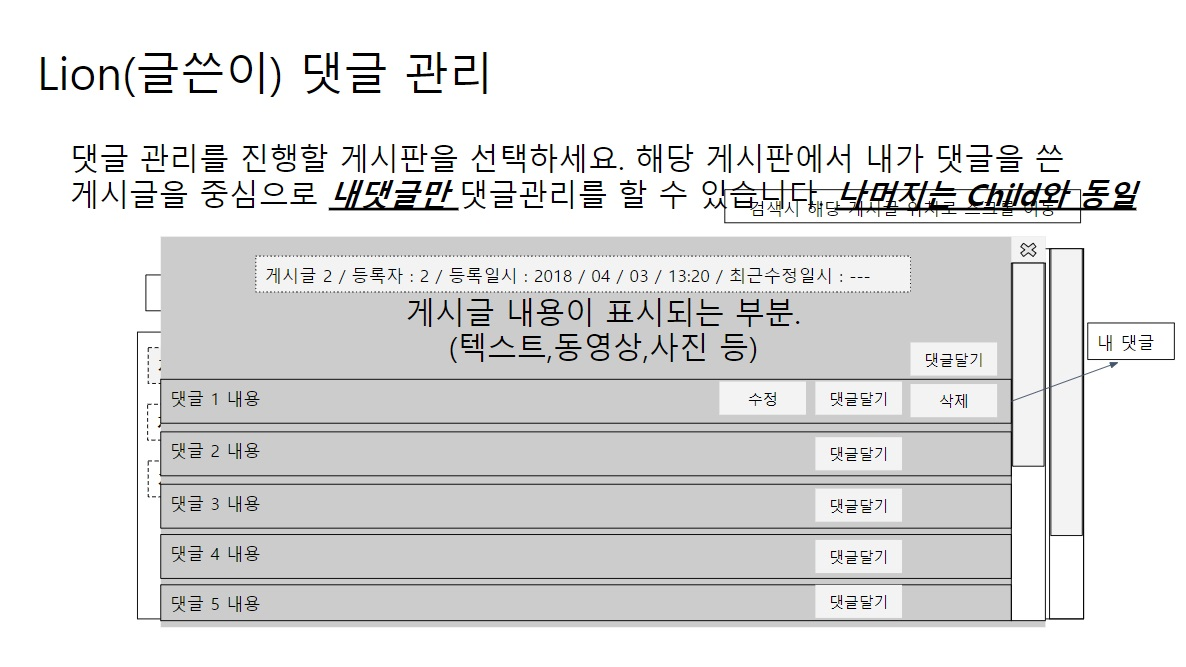
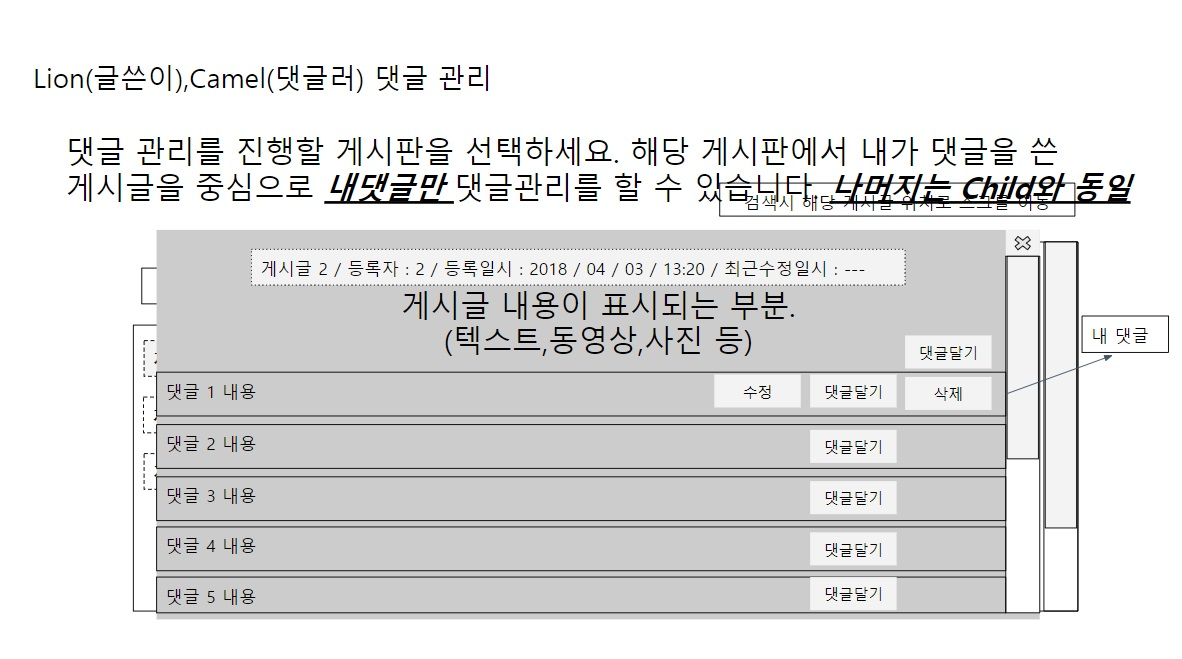
check if I put all right on first and second pre-document

Changed region(s): [[0.0609, 0.2124, 1.0, 0.9408], [0.0305, 0.0607, 0.4264, 0.1517]]

diff --git a/Document_before_development/2.Scene_Definition_Document.md b/Document_before_development/2.Scene_Definition_Document.md
@@ -1,3 +1,297 @@
 **화면 정의서**
 =======================================
->작성날짜 : 2019-0-31
+>작성날짜 : 2019-05-07
+
+**목차**
+=======================================
+> 화면 흐름도
+
+> 관찰자(Owl)가 선택할 수 있는 화면 구성
+
+> 관리자(Child)가 선택할 수 있는 화면 구성
+
+> 글쓴이(Lion)이 선택할 수 있는 화면 구성
+
+> 댓글러(Camel)이 선택할 수 있는 화면 구성
+
+**화면 흐름도**
+=======================================
+* 화면 흐름도에서 제일 중요하게 볼 것은, 계급이 4가지로 분류된다는 것이다.
+    + 계급은 관리자(Child), 글쓴이(Lion), 댓글러(Camel), 관찰자(Owl)로 구분되며 각자 다른 권한을 가지고 있다.
+        - 구글 로그인을 하면 기존 활동 기록에 따라 관리자(Child), 글쓴이(Lion), 댓글러(Camel)로 분류되고, 다른 권한을 가진다.
+        - 권한의 크기 : 관리자(Child) > 글쓴이(Lion) > 댓글러(Camel) > 관찰자(Owl)이다.
+    + 관리자(Child)
+        - 게시판 관리
+        - 회원 관리
+        - 전체 게시글 관리
+        - 전체 댓글 관리
+        - 게시글 읽고 쓰기
+        - 댓글 읽고 쓰기
+    + 글쓴이(Lion)
+        - 자신의 (전체x) 게시글 관리
+        - 자신의 (전체x) 댓글 관리
+        - 게시글 읽고 쓰기
+        - 댓글 읽고 쓰기
+    + 댓글러(Camel)
+        - 자신의 (전체x) 댓글 관리
+        - 게시글 읽기 (쓰기x)
+        - 댓글 읽고 쓰기
+    + 관찰자(Owl)
+        - 게시글 읽기 (쓰기x)
+        - 댓글 읽기 (쓰기x)
+* 계급을 이렇게 분류한 이유는 니체의 인간 발전 3단계(초인으로 가는 길)를 참고했다.
+    + 주인으로 사는 사람 Child : 아이와 같은 순수성으로 새로운 가치를 창조
+    + 어중간한 주인으로 사는 사람 Lion : 주인이 되는 것 만이 중요해 다 물어 뜯는 단계, 아직 세상을 많이 배우지 못한 단계
+    + 노예로 사는 사람 Camel : 정해진 틀속에 갇혀, 남들이 규정하는 대로 세상을 살아가는 존재
+    + 아무것도 아닌 방관자 Owl : 이 모든 서사를 지켜보는 관찰자, 언제든지 Child가 될 수 있다고 꿈꾸지만, 커뮤니티에 소속된 순간 Camel이 되어버리고 만다.
+------------------------------------------
+![Alt text](/images/2.Scene_Definition_Document/Scene1.jpg "Scene1")
+
+
+**관찰자(Owl)가 선택할 수 있는 화면 구성**
+=======================================
+
+* 관찰자(Owl)는 로그인하지 않은 익명 사용자를 가리킨다
+    + 게시글 조회와 댓글 읽기만 할 수 있다. 
+    + 처음 사이트를 방문하는 사람이 보는 화면이다.
+    + 구글 로그인을 하면, 로그인 세션이 저장되고, DB에 저장된, 계급에 따라 세가지 계급으로 구분된다.
+        - 세 계급이란 관리자(Child), 글쓴이(Lion), 댓글러(Camel)을 가리킨다.
+------------------------------------------
+1. 처음 보는 화면
+
+![Alt text](/images/2.Scene_Definition_Document/Scene2.jpg "Scene2")
+
+2. 구글 로그인을 선택 했을 때
+    * 기존 로그인 세션이 저장되있으면 클릭시 바로 로그인이 된다.
+
+![Alt text](/images/2.Scene_Definition_Document/Scene3.jpg "Scene3")
+
+3. 구글 로그인 선택 후 세션 저장되 있는게 없거나 만료됐을 때
+    * 새로 구글 로그인을 진행해주어야 한다.
+        - 만약 크롬과 구글 API를 잘 사용할 수 있다면, 따로 로그인하는 이 절차를 간소화할 수 있음.
+    * 만약 세션이 남아있다면 사이트에 접속하자마자 로그인 성공화면으로 넘어건다.
+
+![Alt text](/images/2.Scene_Definition_Document/Scene4.jpg "Scene4")
+
+4. 구글 로그인 실패화면
+    * 아이디(Id) 혹은 비밀번호(Password)를 빈칸으로 입력하지 않은 경우
+    * 비밀 번호를 잘못 입력한 경우
+
+![Alt text](/images/2.Scene_Definition_Document/Scene5.jpg "Scene5")
+![Alt text](/images/2.Scene_Definition_Document/Scene6.jpg "Scene6")
+
+5. 구글 로그인 성공화면
+    * 아이디(Id) 혹은 비밀번호(Password)를 빈칸없이 제대로 입력했고, 구글 아이디와 비밀번호까지 제대로 입력한 경우
+
+![Alt text](/images/2.Scene_Definition_Document/Scene7.jpg "Scene7")
+![Alt text](/images/2.Scene_Definition_Document/Scene14.jpg "Scene14")
+![Alt text](/images/2.Scene_Definition_Document/Lion_Login_Success.jpg "Lion_Login_Success")
+![Alt text](/images/2.Scene_Definition_Document/Camel_Login_Success.jpg "Camel_Login_Success")
+
+6. 게시판 조회 (게시글 목록 보기) & 게시글 검색
+    * 최초 게시판을 선택하지 않았을 때에는, 모든 게시글이 표시된다. 
+        + 이 때, 게시판을 선택하면 해당 게시판의 모든 게시글이 표시된다.
+
+    * 게시글 검색은 제목, 내용, 작성자를 선택하여 검색할 수 있다.
+        + 작성자는 이메일을 검색해야 나온다.
+        + 카테고리(게시판)을 선택하지 않고, 검색하면 전체 게시글을 대상으로 검색 내용이 나온다.
+        + 카테고리(게시판)을 선택후 검색하면 해당 게시판에 해당하는 게시글을 대상으로 검색 내용이 나온다.
+    * 즉 다시말해, 게시판을 선택했느냐에 대해 전체 게시글과 해당 게시판의 글 목록이 조회된다. 
+        + 여기서 검색을 했느냐에 따라 전체 게시글을 대상으로 검색하거나, 게시판 내의 게시글을 대상으로 검색한다.
+![Alt text](/images/2.Scene_Definition_Document/Scene8.0.jpg "Scene8")
+![Alt text](/images/2.Scene_Definition_Document/Scene8.jpg "Scene8")
+![Alt text](/images/2.Scene_Definition_Document/Scene9.jpg "Scene9")
+![Alt text](/images/2.Scene_Definition_Document/Scene10.jpg "Scene10")
+![Alt text](/images/2.Scene_Definition_Document/Scene11.jpg "Scene11")
+
+7. 게시글 읽기 & 댓글 읽기
+    * 게시글 읽기와 댓글 읽기는 관찰자(Owl)뿐만 아니라 댓글러(Camel), 글쓴이(Lion), 관리자(Child) 모두 가능하다.
+        + 관리자(Child), 글쓴이(Lion), 댓글러(Camel)은 게시글을 조회하는 화면에서 해당 글과 댓글을 수정, 삭제를 할 수 있다.
+        + 좀 더 구체적으로 관리자(Child)는 모든 글과 댓글을 삭제하고 자신의 것은 수정할 수 있지만, 글쓴이(Lion), 댓글러(Camel)은 자기글과 댓글만 수정, 삭제가 가능하다.
+
+![Alt text](/images/2.Scene_Definition_Document/Scene12.jpg "Scene12")
+![Alt text](/images/2.Scene_Definition_Document/Scene13.jpg "Scene13")
+
+**관리자(Child)가 선택할 수 있는 화면 구성**
+=======================================
+* 관리자(Child)는 로그인한 1명의 최고 권한자를 가리킨다.
+    + 관리자는 다양한 고유 권한을 가지고 있다.
+        - 게시판 관리 : 게시판의 생성, 수정, 삭제, 숨김 
+        - 회원 관리 : 회원 등급의 승격과 강등
+        - 게시글 관리 : 전체 게시글에 대한 조회 및 삭제 권한
+        - 댓글 관리 : 전체 댓글에 대한 조회 및 삭제 권한
+------------------------------------------
+![Alt text](/images/2.Scene_Definition_Document/Scene14.jpg "Scene14")
+
+1. 게시판 관리
+    * 관리자(Child)의 게시판 관리 기능은 다음과 같다.
+        + 기존 게시판의 활성화 / 비활성화 
+        + 새로운 게시판의 등록 : 게시판 이름, 특징, 디자인 방식과 페이징 방식 결정
+        + 게시판의 수정
+        + 게시판의 삭제
+    * 게시판의 수정 및 삭제는, 게시판을 비활성화하고 나서야 가능하다.
+        + 게시판을 삭제하게되면 안에 있는 모든 게시글, 댓글 기록이 삭제된다.
+        + 따라서 게시판을 삭제할 때는 관리자 본인 확인을 위해 구글 비밀번호를 한번 더 입력해야 한다.
+
+![Alt text](/images/2.Scene_Definition_Document/Scene15.jpg "Scene15")
+![Alt text](/images/2.Scene_Definition_Document/Scene16.jpg "Scene16")
+![Alt text](/images/2.Scene_Definition_Document/Scene17.jpg "Scene17")
+![Alt text](/images/2.Scene_Definition_Document/Scene18.jpg "Scene18")
+![Alt text](/images/2.Scene_Definition_Document/Scene19.jpg "Scene19")
+![Alt text](/images/2.Scene_Definition_Document/Scene20.jpg "Scene20")
+![Alt text](/images/2.Scene_Definition_Document/Scene21.jpg "Scene21")
+![Alt text](/images/2.Scene_Definition_Document/Scene22.jpg "Scene22")
+![Alt text](/images/2.Scene_Definition_Document/Scene23.jpg "Scene23")
+![Alt text](/images/2.Scene_Definition_Document/Scene24.jpg "Scene24")
+![Alt text](/images/2.Scene_Definition_Document/Scene25.jpg "Scene25")
+![Alt text](/images/2.Scene_Definition_Document/Scene26.jpg "Scene26")
+![Alt text](/images/2.Scene_Definition_Document/Scene27.jpg "Scene27")
+![Alt text](/images/2.Scene_Definition_Document/Scene28.jpg "Scene28")
+![Alt text](/images/2.Scene_Definition_Document/Scene29.jpg "Scene29")
+![Alt text](/images/2.Scene_Definition_Document/Scene30.jpg "Scene30")
+![Alt text](/images/2.Scene_Definition_Document/Scene31.jpg "Scene31")
+![Alt text](/images/2.Scene_Definition_Document/Scene32.jpg "Scene32")
+![Alt text](/images/2.Scene_Definition_Document/Scene33.jpg "Scene33")
+![Alt text](/images/2.Scene_Definition_Document/Scene34.jpg "Scene34")
+![Alt text](/images/2.Scene_Definition_Document/Scene35.jpg "Scene35")
+![Alt text](/images/2.Scene_Definition_Document/Scene36.jpg "Scene36")
+
+2. 회원 관리
+    * 관리자(Child)의 회원 관리 기능은 다음과 같다.
+        + 회원 목록(Lion,Camel) 보기
+        + 회원의 승격 및 강등
+    * 해당 회원이 남긴 게시글과 댓글을 확인할 수 있다.
+
+![Alt text](/images/2.Scene_Definition_Document/Scene37.jpg "Scene37")
+![Alt text](/images/2.Scene_Definition_Document/Scene38.jpg "Scene38")
+![Alt text](/images/2.Scene_Definition_Document/Scene39.jpg "Scene39")
+![Alt text](/images/2.Scene_Definition_Document/Scene40.jpg "Scene40")
+![Alt text](/images/2.Scene_Definition_Document/Scene41.jpg "Scene41")
+
+
+3. 게시글 관리
+    * 관리자(Child)의 게시글 관리 기능은 다음과 같다.        
+        + 게시글 확인(모든 게시글 가능)
+        + 게시글 등록(모든 게시글 가능)
+        + 게시글 삭제(모든 게시글 가능)
+        + 게시글 숨김(모든 게시글 가능)
+        + 게시글 이동(모든 게시글 가능, 다른 게시판으로 이동)
+        + 게시글 이동(모든 게시글 가능)
+        + 게시글 수정(본인이 남긴 게시글일 경우)
+    * 모든 게시글 관리 과정은 관리할 게시글이 담긴 게시판 선택이 선행되어야 한다.
+        + 게시판을 선택하고 원하는 관리하고 싶은 게시글의 조건을 다시 한번 검색해서 선택 할 수 있다.
+    * 게시글 확인, 등록, 수정하는 작업은 새창을 열어 진행된다.
+        + 새창을 열어서 해당 글의 삭제 또한 가능하지만, 게시글 관리 페이지에서 삭제가 더 편하다.
+    * 관리자이기 때문에 자기가 남긴 글 뿐만이 아니라, 모든 글에 대해서 삭제를 진행할 수 있다. 다만 수정은 자기글만 가능하다.
+
+![Alt text](/images/2.Scene_Definition_Document/Scene42.jpg "Scene42")
+![Alt text](/images/2.Scene_Definition_Document/Scene43.jpg "Scene43")
+![Alt text](/images/2.Scene_Definition_Document/Scene44.jpg "Scene44")
+![Alt text](/images/2.Scene_Definition_Document/Scene45.jpg "Scene45")
+![Alt text](/images/2.Scene_Definition_Document/Scene46.jpg "Scene46")
+![Alt text](/images/2.Scene_Definition_Document/Scene47.jpg "Scene47")
+![Alt text](/images/2.Scene_Definition_Document/Scene48.jpg "Scene48")
+![Alt text](/images/2.Scene_Definition_Document/Scene49.jpg "Scene49")
+![Alt text](/images/2.Scene_Definition_Document/Scene50.jpg "Scene50")
+![Alt text](/images/2.Scene_Definition_Document/Scene51.jpg "Scene51")
+![Alt text](/images/2.Scene_Definition_Document/Scene52.jpg "Scene52")
+![Alt text](/images/2.Scene_Definition_Document/Scene53.jpg "Scene53")
+![Alt text](/images/2.Scene_Definition_Document/Scene54.jpg "Scene54")
+![Alt text](/images/2.Scene_Definition_Document/Scene55.jpg "Scene55")
+![Alt text](/images/2.Scene_Definition_Document/Scene56.jpg "Scene56")
+![Alt text](/images/2.Scene_Definition_Document/Scene57.jpg "Scene57")
+![Alt text](/images/2.Scene_Definition_Document/Scene58.jpg "Scene58")
+![Alt text](/images/2.Scene_Definition_Document/Scene59.jpg "Scene59")
+![Alt text](/images/2.Scene_Definition_Document/Scene60.jpg "Scene60")
+![Alt text](/images/2.Scene_Definition_Document/Scene61.jpg "Scene61")
+![Alt text](/images/2.Scene_Definition_Document/Scene62.jpg "Scene62")
+![Alt text](/images/2.Scene_Definition_Document/Scene63.jpg "Scene63")
+
+4. 댓글 관리
+    * 관리자(Child)의 댓글 관리 기능은 다음과 같다.        
+        + 댓글 확인(모든 댓글 가능)
+        + 댓글 달기(모든 게시글 대상 가능)
+        + 대댓글 달기(모든 게시글 대상 가능)
+        + 댓글 삭제(모든 댓글 가능)
+    * 모든 댓글 관리 과정은 관리할 게시글이 담긴 게시판 선택이 선행되어야 한다.
+        + 게시판 선택 후 원하는 댓글을 검색(작성자,내용)해서 찾을 수 있다.
+    * 관리자이기 때문에 자기가 남긴 댓글 뿐만이 아니라, 모든 댓글에 대해서 삭제를 진행할 수 있다. 다만 수정은 자기 댓글만 가능하다.
+    * 게시글 확인(관리자,글쓴이)은 새창에 게시글 내용이 상세하게 표시되는 반면, 간략한 내용만 표시되기 때문에 팝업창에 댓글내용과 연동되는 게시글 내용이 간략히 표시된다.
+
+![Alt text](/images/2.Scene_Definition_Document/Scene64.jpg "Scene64")
+![Alt text](/images/2.Scene_Definition_Document/Scene65.jpg "Scene65")
+![Alt text](/images/2.Scene_Definition_Document/Scene66.jpg "Scene66")
+![Alt text](/images/2.Scene_Definition_Document/Scene67.jpg "Scene67")
+![Alt text](/images/2.Scene_Definition_Document/Scene68.jpg "Scene68")
+![Alt text](/images/2.Scene_Definition_Document/Scene69.jpg "Scene69")
+![Alt text](/images/2.Scene_Definition_Document/Scene70.jpg "Scene70")
+![Alt text](/images/2.Scene_Definition_Document/Scene71.jpg "Scene71")
+![Alt text](/images/2.Scene_Definition_Document/Scene72.jpg "Scene72")
+![Alt text](/images/2.Scene_Definition_Document/Scene73.jpg "Scene73")
+![Alt text](/images/2.Scene_Definition_Document/Scene74.jpg "Scene74")
+![Alt text](/images/2.Scene_Definition_Document/Scene75.jpg "Scene75")
+![Alt text](/images/2.Scene_Definition_Document/Scene76.jpg "Scene76")
+![Alt text](/images/2.Scene_Definition_Document/Scene77.jpg "Scene77")
+![Alt text](/images/2.Scene_Definition_Document/Scene78.jpg "Scene78")
+
+**글쓴이(Lion)가 선택할 수 있는 화면 구성**
+=======================================
+* 글쓴이(Lion)는 로그인한 10명의 글을 쓸 수 있는 권한자를 가리킨다. 
+    + 글쓴이(Lion)는 다양한 고유 권한을 가지고 있다.
+        - 게시글 관리 : 게시글의 등록과 자기 게시글에 한해서 수정, 삭제, 숨김 
+        - 댓글 관리 : 댓글의 등록과, 자기 댓글에 한해서 댓글의 수정 삭제
+* 관리자(Child)보다 등급이 낮지만, 관리자의 위임을 받아 관리자가 될 수 있는 등급이다.
+* 또한 댓글러(Camel)로 강등당할 수 있는 계급이며, 댓글러(Camel)에서 승격받을 수 있는 등급이다.
+------------------------------------------
+![Alt text](/images/2.Scene_Definition_Document/Lion_Login_Success.jpg "Lion_Login_Success")
+
+1. 게시글 관리
+    * 글쓴이(Lion)의 게시글 관리 기능은 다음과 같다.        
+        + 자기 게시글 확인
+        + 게시글 등록
+        + 게시글 삭제(본인이 남긴 게시글일 경우)
+        + 게시글 숨김(본인이 남긴 게시글일 경우)
+        + 게시글 이동(본인이 남긴 게시글일 경우, 다른 게시판)
+        + 게시글 수정(본인이 남긴 게시글일 경우)
+    * 자신의 게시글 관리 과정은 관리할 게시글이 담긴 게시판 선택이 선행되어야 한다.
+        + 게시판을 선택하고 원하는 관리하고 싶은 게시글의 조건을 다시 한번 검색해서 선택 할 수 있다.
+    * 게시글 확인, 등록, 수정하는 작업은 새창을 열어 진행된다.
+        + 새창을 열어서 해당 글의 삭제 또한 가능하지만, 게시글 관리 페이지에서 삭제가 더 편하다.
+    * 관리자가 아니기 때문에 자기가 남긴 글만 수정 삭제가 가능하다.
+        + 다만 관리자가 숨김해 놓은 자신의 글을 다시 숨김 풀기할 수 있는 권한이 있다. 또한, 관리자가 다른 게시판으로 이동해 놓은 글을 다시 원복해 놓을 수 있는 권한이 있다.
+
+2. 댓글 관리
+    * 글쓴이(Lion)의 댓글 관리 기능은 댓글러(Camel)의 기능과 동일하기 때문에, 댓글러(Camel) 부분에서 논의하도록 함.
+
+![Alt text](/images/2.Scene_Definition_Document/Scene79.jpg "Scene79")
+![Alt text](/images/2.Scene_Definition_Document/Scene80.jpg "Scene80")
+![Alt text](/images/2.Scene_Definition_Document/Scene81.jpg "Scene81")
+![Alt text](/images/2.Scene_Definition_Document/Scene82.jpg "Scene82")
+
+**댓글러(Camel)가 선택할 수 있는 화면 구성**
+=======================================
+* 댓글러(Camel)는 로그인한 불특정 다수의 관찰자(Owl)들을 가리킨다.
+    + 댓글러(Camel)는 다양한 고유 권한을 가지고 있다.
+        - 게시글 관리 : 게시글의 등록과 자기 게시글에 한해서 수정, 삭제, 숨김 
+        - 댓글 관리 : 댓글의 등록과, 자기 댓글에 한해서 댓글의 수정 삭제
+* 관리자(Child)보다 등급이 낮지만, 관리자의 위임을 받아 관리자가 될 수 있는 등급이다.
+* 또한 댓글러(Camel)로 강등당할 수 있는 계급이며, 댓글러(Camel)에서 승격받을 수 있는 등급이다.
+------------------------------------------
+![Alt text](/images/2.Scene_Definition_Document/Camel_Login_Success.jpg "Camel_Login_Success")
+
+1. 댓글 관리
+    * 댓글러(Camel)의 댓글 관리 기능은 다음과 같다.        
+        + 댓글 확인(자기가 남긴 댓글만 가능)
+        + 댓글 달기(자기가 남긴 댓글에 파생된 글만 가능)
+        + 대댓글 달기(자기가 남긴 댓글에 파생된 글만 가능)
+        + 댓글 삭제(모든 남긴 댓글만 가능)
+    * 모든 댓글 관리 과정은 관리할 게시글이 담긴 게시판 선택이 선행되어야 한다.
+        + 게시판 선택 후 원하는 댓글(자기 댓글 한정)을 검색(작성자,내용)해서 찾을 수 있다.
+    * 관리자가 아니기 때문에 자기가 남긴 댓글만 수정 삭제가 가능하다.
+    * 댓글을 확인하면서 간략하게 글의 내용을 확인 할 수 있다.
+        + 게시글 확인(관리자,글쓴이)은 새창에 게시글 내용이 상세하게 표시되는 반면, 간략한 내용만 표시되기 때문에 팝업창에 댓글내용과 연동되는 게시글 내용이 간략히 표시된다.
+
+![Alt text](/images/2.Scene_Definition_Document/Scene83.jpg "Scene83")
+![Alt text](/images/2.Scene_Definition_Document/Scene84.jpg "Scene84")
+![Alt text](/images/2.Scene_Definition_Document/Scene85.jpg "Scene85")
+![Alt text](/images/2.Scene_Definition_Document/Scene86.jpg "Scene86")

diff --git a/Document_before_development/1.Requirement_Definition_Document.md b/Document_before_development/1.Requirement_Definition_Document.md
@@ -102,11 +102,11 @@
     * 좌측은 모든 게시판 카테고리의 최신글 20개
     * 우측상단은 게시판별 카테고리와 글의 수
 
-     ![Alt text](/images/1.Requirement_Definition_Document/basic_design.jpg "Basic_Design")
+     ![Alt text](/images/1.Requirement_Definition_Document/Basic_design.jpg "Basic_Design")
 
     * 게시판을 클릭해서 들어가면 아래처럼 해당 글만 따로 나온다.
 
-    ![Alt text](/images/1.Requirement_Definition_Document/basic_design2.jpg "Basic_Design2")
+    ![Alt text](/images/1.Requirement_Definition_Document/Basic_design2.jpg "Basic_Design2")
 
 > 게시글 읽기 / 작성 / 수정 / 삭제 / 검색 / 관리 - Q4
 
